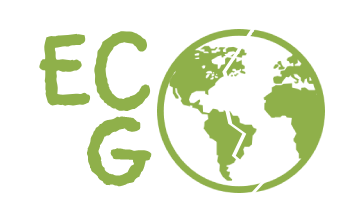
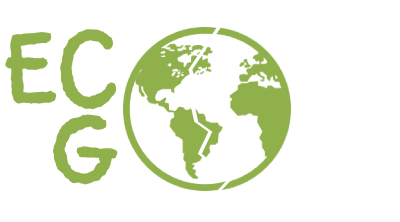
Added code and images for easter egg
added new images and code for easter egg using mostly jss and changing the css

diff --git a/index.html b/index.html
@@ -26,12 +26,18 @@
             <a href="./html/joinUs.html">JOIN US</a>
         </div>
         
-        <!--three line thigy to open up the menu bar-->
+        <!--menubar icon-->
         <span id = "indexspan" style="font-size:30px;cursor:pointer; text-align: left" onclick="openNav()">&#9776;</span>
         
-        <!--Eco Go logo-->
+        <!--EcoGo logo with easter egg-->
         <div id='divLogo'>
-            <img src="./image/ecogo.png" alt="EcoGo" width="195" height="120" id="image" onclick="easterEgg()">
+          <img src="./image/Wcrack6.png"/>
+          <img src="./image/Wcrack5.png" onclick="easterEgg(this);counter()"/>
+          <img src="./image/Wcrack4.png" onclick="easterEgg(this);counter()"/>
+          <img src="./image/Wcrack3.png" onclick="easterEgg(this);counter()"/>
+          <img src="./image/Wcrack2.png" onclick="easterEgg(this);counter()"/>
+          <img src="./image/Wcrack1.png" onclick="easterEgg(this);counter()"/>
+          <img src="./image/Wecogo.png" onclick="easterEgg(this);counter()"/>
         </div>
         
         <!--label and text box to input location-->

diff --git a/js/easterEgg.js b/js/easterEgg.js
@@ -1,11 +1,36 @@
-function easterEgg() {
+/* counter to track number of clicks on a element */
+let count = 0;
 
-	element = document.getElementById("image");
-	element.addEventListener("click", function(e) {
+/* function to increment counter */
+function counter() {
+	count+=1;
+}
+
+/* function for the easter egg */
+function easterEgg(element) {
+	
+	/* When count is under 5, this event listener 
+	refreshes class called easterEgg which shows
+	the shaking animation when clicked */
+	element.addEventListener("click", function a(e) {
 		element.classList.remove("easterEgg");
 		e.preventDefault;
 	    void element.offsetWidth;
 	    element.classList.add("easterEgg");
 	});
 
+	console.log("counter= " + count);
+
+	/* When count is five or greater, the event listener 
+	is overwritten and instead changes the layer clicked
+	into display none */
+	if (count >= 5) {	
+		element.addEventListener("click", function b() {
+			if ( element.style.display == 'none' ) {
+				element.style.display = 'initial';
+			} else {
+				element.style.display = 'none';
+			}
+		});
+	}
 }

diff --git a/css/ecoGo.css b/css/ecoGo.css
@@ -32,7 +32,13 @@ button:focus, textarea {
 /* div for the logo*/
 #divLogo {
     margin-top: 80px;
+    margin-left: -150px;
     height: 150px;
+}
+#divLogo img {
+    position: absolute;
+    width: 195px;
+    height: 120px;
 }
 button {
     background-color: black;
@@ -56,10 +62,12 @@ legend {
     margin: auto;
     margin-top: 60px;
 }
+/* styling for the easter egg */
 .easterEgg {
 	animation: shake 0.5s;
 	animation-iteration-count: 1;
 }
+/* keyframe animation to shake the element */
 @keyframes shake {
 	0% { transform: translate(1px, 1px) rotate(0deg); }
 	10% { transform: translate(-1px, -2px) rotate(-1deg); }
